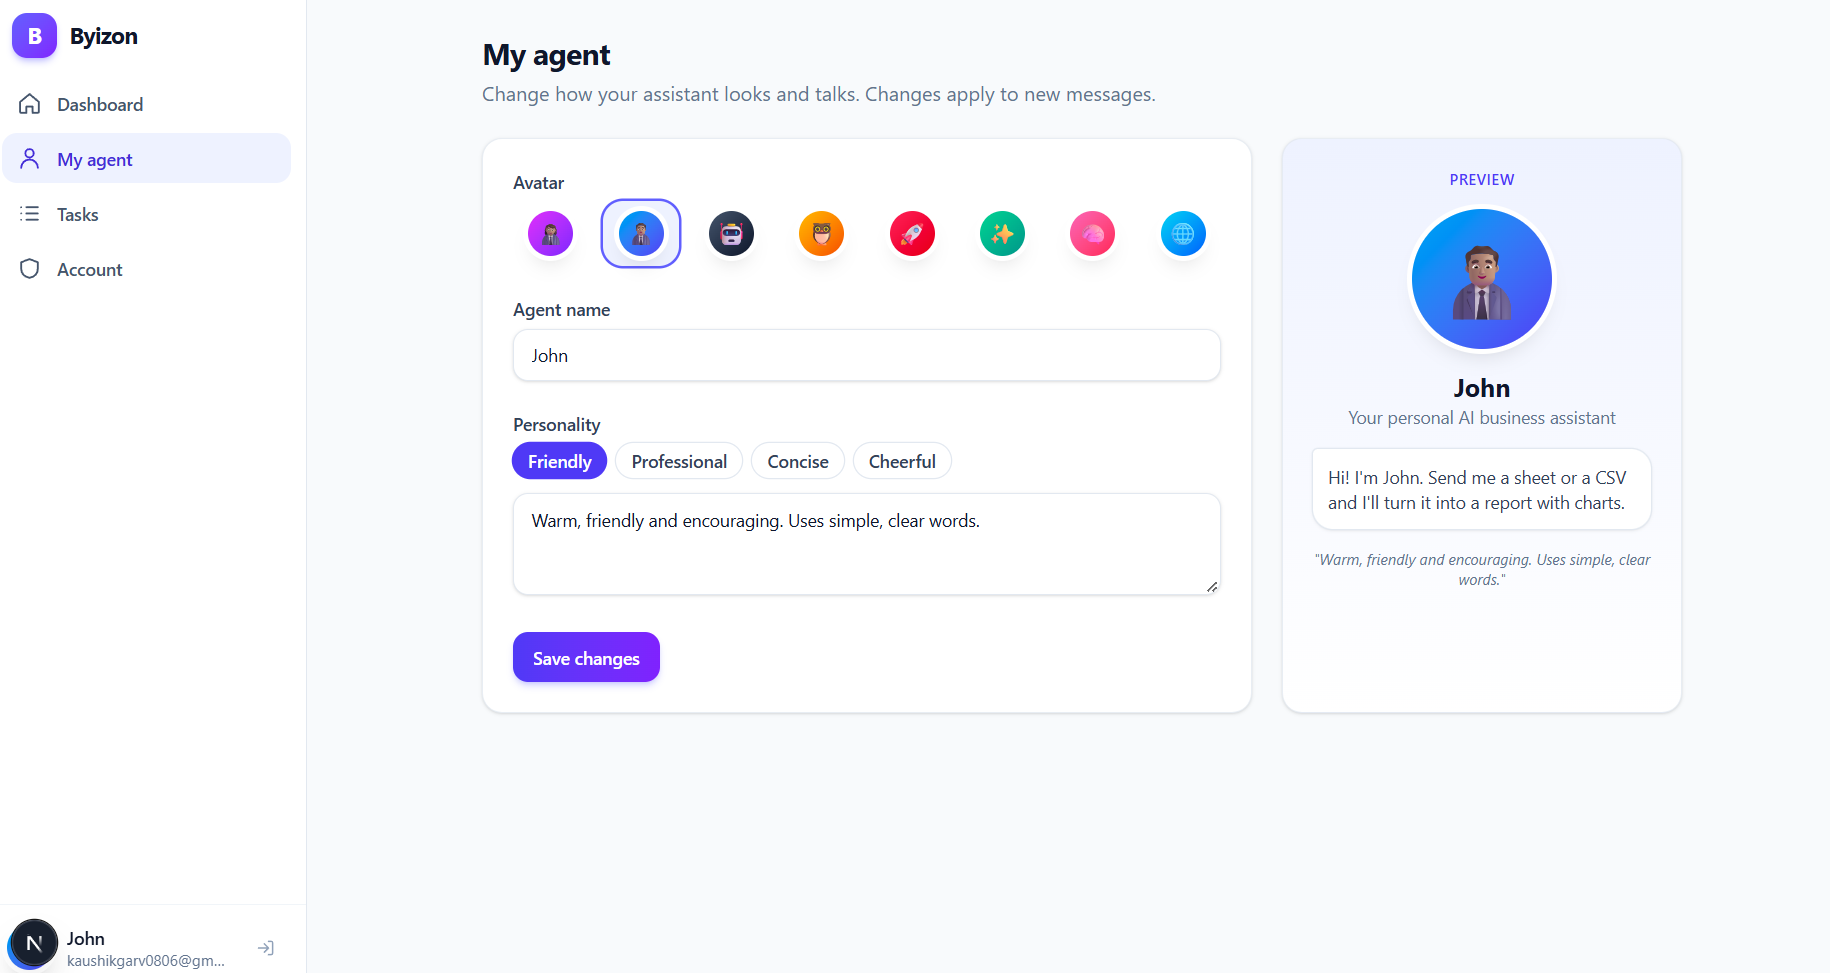
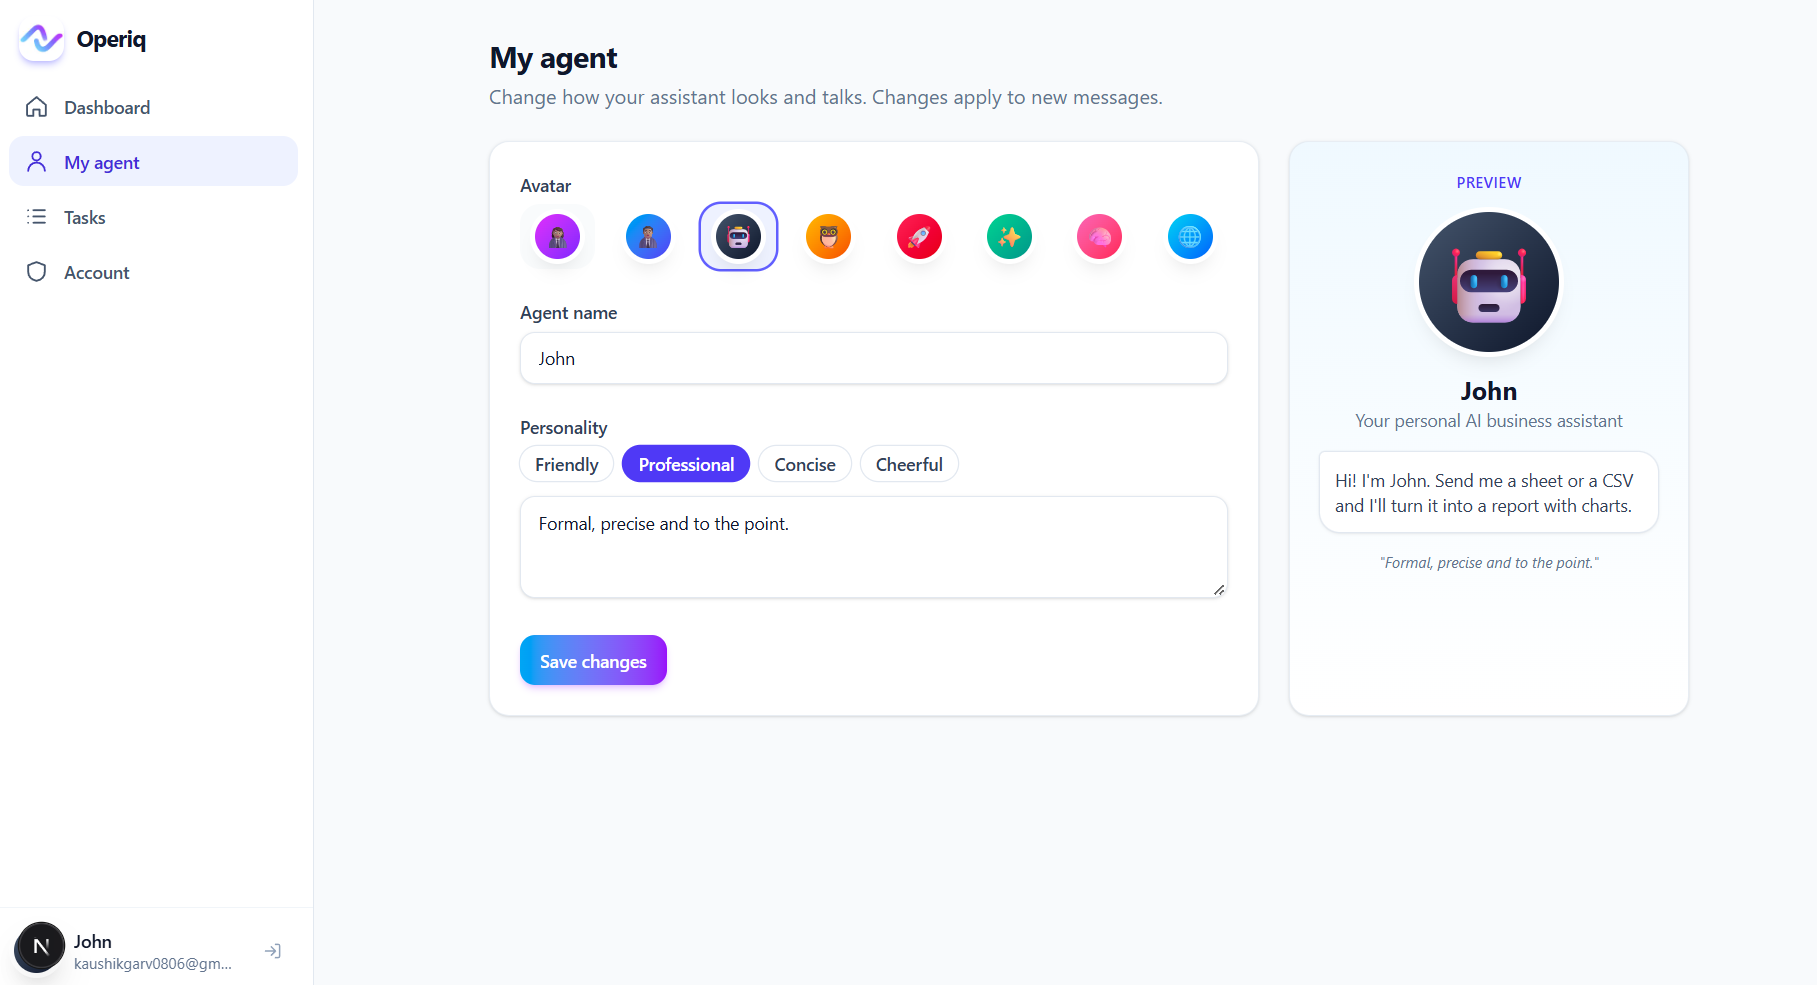
Demo Screenshots added

diff --git a/packages/shared/src/messaging/telegram.ts b/packages/shared/src/messaging/telegram.ts
@@ -1,7 +1,16 @@
-import { Bot, InlineKeyboard, InputFile } from 'grammy'
+import { Bot, GrammyError, InlineKeyboard, InputFile } from 'grammy'
 import type { IncomingMessage, MessagingAdapter } from './types'
 
 const MAX_TEXT = 4000 // Telegram limit is 4096
+
+/** Replies use **bold**; Telegram only renders it as HTML, so everything else is escaped. */
+export function toTelegramHtml(text: string): string {
+  return text
+    .replace(/&/g, '&amp;')
+    .replace(/</g, '&lt;')
+    .replace(/>/g, '&gt;')
+    .replace(/\*\*(.+?)\*\*/gs, '<b>$1</b>')
+}
 
 export class TelegramAdapter implements MessagingAdapter {
   private bot: Bot
@@ -50,7 +59,17 @@ export class TelegramAdapter implements MessagingAdapter {
   }
 
   async sendText(chatId: string, text: string) {
-    await this.bot.api.sendMessage(chatId, text.slice(0, MAX_TEXT))
+    await this.sendFormatted(chatId, text.slice(0, MAX_TEXT))
+  }
+
+  // Falls back to plain text if Telegram can't parse the HTML, so the reply is never lost
+  private async sendFormatted(chatId: string, text: string, extra: { reply_markup?: InlineKeyboard } = {}) {
+    try {
+      await this.bot.api.sendMessage(chatId, toTelegramHtml(text), { ...extra, parse_mode: 'HTML' })
+    } catch (err) {
+      if (!(err instanceof GrammyError && err.error_code === 400)) throw err
+      await this.bot.api.sendMessage(chatId, text, extra)
+    }
   }
 
   async sendFile(chatId: string, file: { name: string; data: Buffer }, caption?: string) {
@@ -64,7 +83,7 @@ export class TelegramAdapter implements MessagingAdapter {
     const keyboard = new InlineKeyboard()
       .text('✅ Confirm', `confirm:${taskId}:yes`)
       .text('❌ Cancel', `confirm:${taskId}:no`)
-    await this.bot.api.sendMessage(chatId, text.slice(0, MAX_TEXT), { reply_markup: keyboard })
+    await this.sendFormatted(chatId, text.slice(0, MAX_TEXT), { reply_markup: keyboard })
   }
 
   async start() {

diff --git a/README.md b/README.md
@@ -21,8 +21,6 @@ with every step recorded.
 
 </div>
 
-> 📸 The screenshots below are from before the rename and still show the old name; they will be retaken.
-
 <p align="center">
   <img src="docs/screenshots/landing.png" alt="Operiq landing page" width="900">
 </p>
